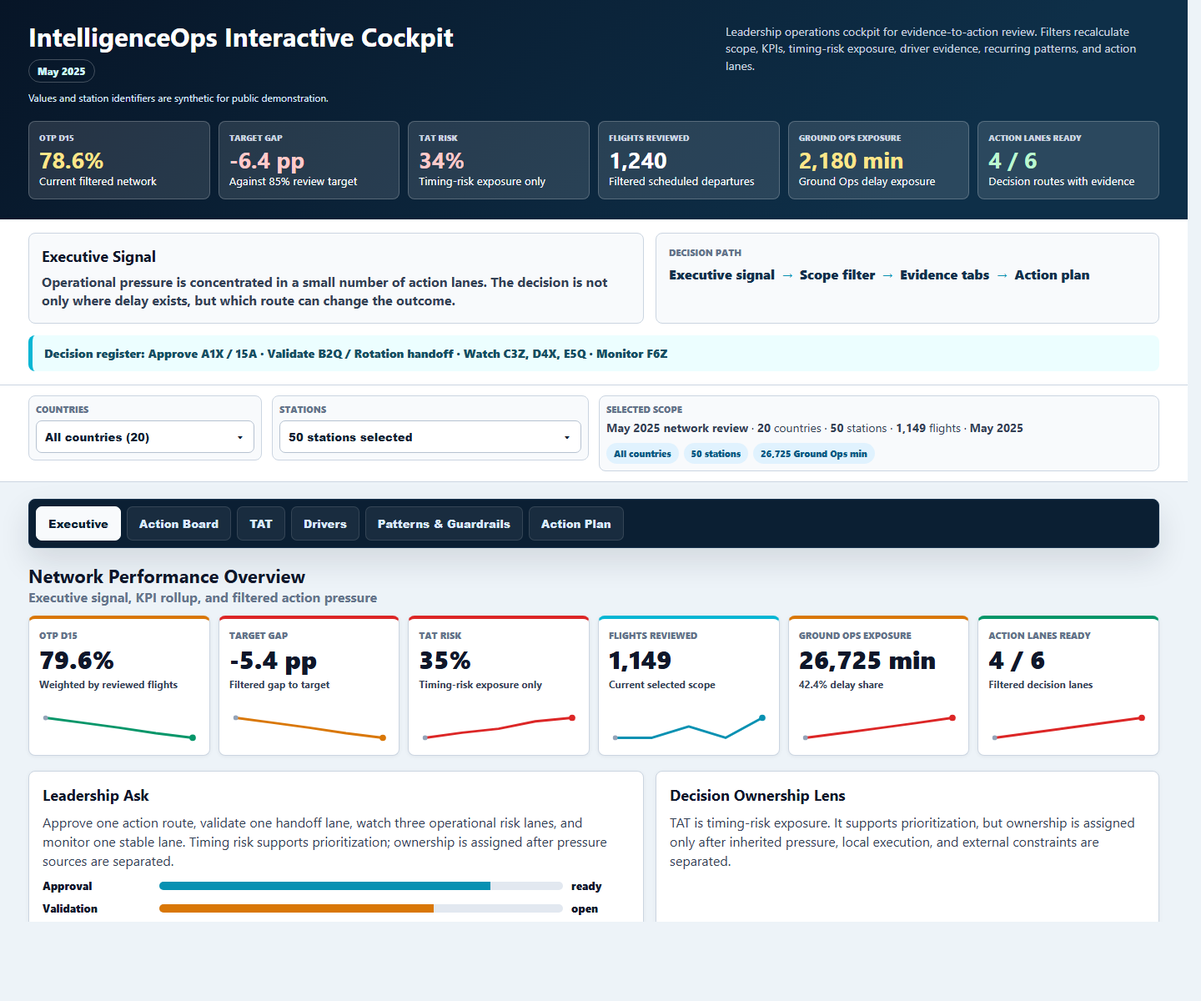
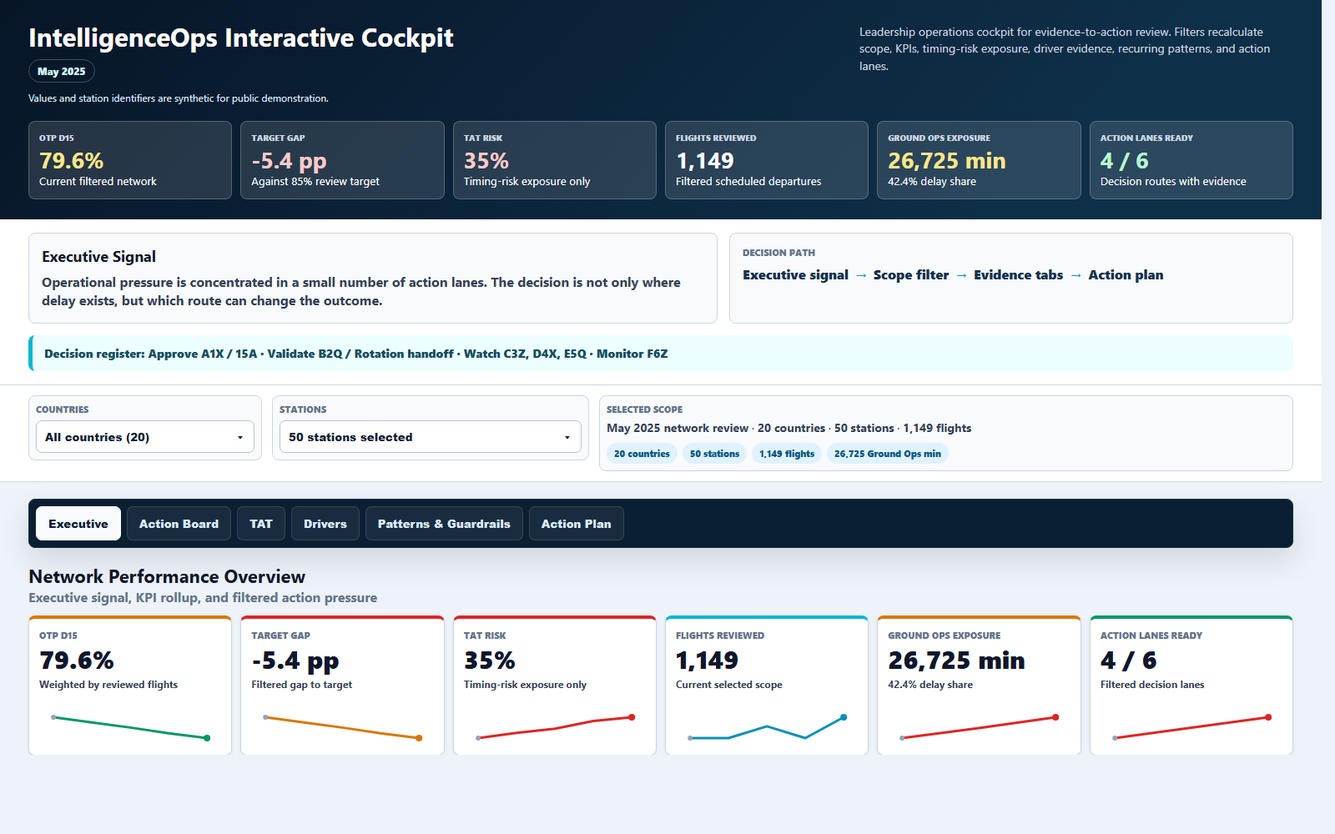
fix: polish interactive synthetic cockpit proof

diff --git a/assets/IntelligenceOps_Synthetic_Interactive_Cockpit.html b/assets/IntelligenceOps_Synthetic_Interactive_Cockpit.html
@@ -48,7 +48,7 @@ h1 { margin:0; font-size:31px; line-height:1.05; letter-spacing:0; }
 .scope-summary { font-size:14px; color:#334155; line-height:1.35; }
 .chips { display:flex; gap:6px; flex-wrap:wrap; margin-top:8px; }
 .chip { background:#e0f2fe; color:#075985; border-radius:999px; padding:5px 9px; font-size:11px; font-weight:850; }
-.wrap { padding:20px 34px 34px; max-width:1680px; margin:0 auto; }
+.wrap { padding:20px 34px 34px; width:100%; max-width:none; margin:0; }
 .gops-tab-shell { background:#0b1f33; border:1px solid #17324d; border-radius:8px; padding:8px; box-shadow:0 16px 36px rgba(15,23,42,.12); margin-bottom:18px; }
 .gops-tabs { display:flex; gap:7px; flex-wrap:wrap; }
 .gops-tab { border:1px solid rgba(255,255,255,.12); border-radius:7px; background:rgba(255,255,255,.06); color:#dbeafe; padding:10px 14px; font-weight:850; cursor:pointer; }
@@ -79,6 +79,49 @@ h1 { margin:0; font-size:31px; line-height:1.05; letter-spacing:0; }
 .impact-station { display:block; margin-top:6px; font-size:34px; line-height:1; font-weight:950; color:#0f172a; }
 .impact-country { margin-top:8px; display:inline-flex; border-radius:999px; background:#e0f2fe; color:#075985; padding:4px 9px; font-size:11px; font-weight:850; }
 .impact-title { margin:12px 0 8px; font-size:17px; }
+.impact-heading { display:block; margin-top:6px; font-size:30px; line-height:1.05; font-weight:950; color:#0f172a; }
+.action-matrix { table-layout:fixed; min-width:1180px; }
+.action-matrix col.station-col { width:12%; }
+.action-matrix col.signal-col { width:19%; }
+.action-matrix col.evidence-col { width:12%; }
+.action-matrix col.tat-col { width:17%; }
+.action-matrix col.route-col { width:24%; }
+.action-matrix col.next-col { width:16%; }
+.action-matrix .route-cell,.action-matrix .next-cell { line-height:1.38; overflow-wrap:break-word; }
+.tat-risk-table { table-layout:fixed; min-width:1120px; }
+.tat-risk-table col.station-col { width:12%; }
+.tat-risk-table col.country-col { width:12%; }
+.tat-risk-table col.count-col { width:8%; }
+.tat-risk-table col.risk-col { width:10%; }
+.tat-risk-table col.pressure-col { width:22%; }
+.tat-risk-table col.cue-col { width:20%; }
+.tat-pressure { font-weight:850; color:#0f172a; }
+.tat-cue { line-height:1.35; overflow-wrap:break-word; }
+.driver-evidence-table { table-layout:fixed; min-width:1180px; }
+.driver-evidence-table col.station-col { width:11%; }
+.driver-evidence-table col.driver-col { width:19%; }
+.driver-evidence-table col.category-col { width:13%; }
+.driver-evidence-table col.metric-col { width:9%; }
+.driver-evidence-table col.route-col { width:20%; }
+.driver-evidence-table col.evidence-col { width:19%; }
+.driver-route,.driver-evidence { line-height:1.35; overflow-wrap:break-word; }
+.guardrail-grid { display:grid; grid-template-columns:1fr 1fr; gap:10px; margin-top:12px; }
+.guardrail-card { border:1px solid var(--line); border-left:5px solid var(--teal); border-radius:8px; padding:10px; background:#f8fafc; }
+.guardrail-card b { display:block; margin-bottom:4px; color:#0f172a; }
+.guardrail-card p { margin:0; color:#334155; line-height:1.35; }
+.pattern-table,.mom-table { table-layout:fixed; min-width:1120px; }
+.pattern-table col.station-col { width:12%; }
+.pattern-table col.pattern-col { width:22%; }
+.pattern-table col.window-col { width:16%; }
+.pattern-table col.evidence-col { width:14%; }
+.pattern-table col.action-col { width:36%; }
+.mom-table col.station-col { width:10%; }
+.mom-table col.driver-col { width:12%; }
+.mom-table col.category-col { width:18%; }
+.mom-table col.month-col { width:12%; }
+.mom-table col.movement-col { width:12%; }
+.mom-table col.signal-col { width:24%; }
+.pattern-action,.trend-signal { line-height:1.35; overflow-wrap:break-word; }
 .impact-metrics { display:grid; grid-template-columns:1fr 1fr; gap:8px; margin:10px 0; }
 .mini { background:#f8fafc; border:1px solid var(--line); border-radius:7px; padding:9px; font-size:12px; color:#334155; }
 .mini b { display:block; color:#0f172a; margin-bottom:4px; }
@@ -100,8 +143,21 @@ td:last-child { border-right:1px solid var(--line); border-radius:0 8px 8px 0; }
 .risk-callout { background:#fef2f2; border:1px solid #fecaca; border-radius:8px; padding:14px; }
 .risk-callout h2 { color:var(--red); }
 .decision-summary { display:grid; grid-template-columns:repeat(4,1fr); gap:10px; margin-bottom:14px; }
-.decision-summary-card { border:1px solid var(--line); border-radius:8px; padding:12px; background:white; }
-.decision-summary-card strong { display:block; font-size:22px; margin-top:4px; }
+.decision-summary-card { border:1px solid var(--line); border-radius:8px; padding:12px; background:white; border-left:6px solid var(--teal); }
+.decision-summary-card span { display:block; color:#475569; font-weight:900; text-transform:uppercase; font-size:11px; }
+.decision-summary-card strong { display:block; font-size:20px; margin-top:5px; color:#0f172a; line-height:1.15; }
+.decision-summary-card.approve { background:#eff6ff; border-left-color:#0284c7; }
+.decision-summary-card.validate { background:#fffbeb; border-left-color:var(--amber); }
+.decision-summary-card.watch { background:#fff7ed; border-left-color:#f97316; }
+.decision-summary-card.monitor { background:#ecfdf5; border-left-color:var(--green); }
+.decision-frame { margin:0 0 12px; color:#334155; font-weight:760; }
+.action-plan-table { table-layout:fixed; min-width:1120px; }
+.action-plan-table col.lane-col { width:15%; }
+.action-plan-table col.signal-col { width:23%; }
+.action-plan-table col.tat-col { width:17%; }
+.action-plan-table col.route-col { width:28%; }
+.action-plan-table col.success-col { width:17%; }
+.action-plan-table td { line-height:1.35; overflow-wrap:break-word; }
 [hidden] { display:none !important; }
 @media(max-width:1200px){.hero-top,.exec-grid,.filter-grid,.two-col,.driver-grid{grid-template-columns:1fr}.hero-kpi-strip,.kpi-grid{grid-template-columns:repeat(3,1fr)}.impact-hero-grid,.watchlist-grid,.decision-summary{grid-template-columns:1fr 1fr}}
 @media(max-width:760px){.hero,.exec-panel,.filter-panel,.wrap{padding-left:18px;padding-right:18px}.hero-kpi-strip,.kpi-grid,.impact-hero-grid,.watchlist-grid,.decision-summary{grid-template-columns:1fr}.metric-row{grid-template-columns:1fr}.impact-metrics{grid-template-columns:1fr}}
@@ -117,7 +173,14 @@ td:last-child { border-right:1px solid var(--line); border-radius:0 8px 8px 0; }
     </div>
     <div class="hero-note">Leadership operations cockpit for evidence-to-action review. Filters recalculate scope, KPIs, timing-risk exposure, driver evidence, recurring patterns, and action lanes.</div>
   </div>
-  <div class="hero-kpi-strip" id="hero-kpi-strip" data-marker="hero-kpi-strip"></div>
+  <div class="hero-kpi-strip" id="hero-kpi-strip" data-marker="hero-kpi-strip">
+    <div class="hero-kpi warn"><span>OTP D15</span><strong>79.6%</strong><small>Current filtered network</small></div>
+    <div class="hero-kpi bad"><span>Target Gap</span><strong>-5.4 pp</strong><small>Against 85% review target</small></div>
+    <div class="hero-kpi bad"><span>TAT Risk</span><strong>35%</strong><small>Timing-risk exposure only</small></div>
+    <div class="hero-kpi primary"><span>Flights Reviewed</span><strong>1,149</strong><small>Filtered scheduled departures</small></div>
+    <div class="hero-kpi warn"><span>Ground Ops Exposure</span><strong>26,725 min</strong><small>42.4% delay share</small></div>
+    <div class="hero-kpi good"><span>Action Lanes Ready</span><strong>4 / 6</strong><small>Decision routes with evidence</small></div>
+  </div>
 </section>
 <section class="exec-panel" aria-label="Executive cockpit summary">
   <div class="exec-grid">
@@ -213,6 +276,7 @@ const esc = value => String(value == null ? '' : value).replace(/[&<>"']/g, c =>
 const fmtNum = (v,d=0) => Number.isFinite(+v) ? (+v).toLocaleString(undefined,{maximumFractionDigits:d,minimumFractionDigits:d}) : '0';
 const fmtPct = (v,d=1) => fmtNum(v,d) + '%';
 const fmtMin = (v,d=0) => fmtNum(v,d) + ' min';
+const pluralLabel = (count, singular, plural=singular+'s') => `${fmtNum(count)} ${+count===1 ? singular : plural}`;
 const stationSet = () => new Set([...state.stations].filter(s => refByStation.has(s)));
 const currentRows = (rows, key='station') => rows.filter(r => r.period === DATA.meta.period && stationSet().has(r[key]));
 const filterRows = (rows, key='station') => rows.filter(r => stationSet().has(r[key]));
@@ -268,35 +332,30 @@ function renderFilters() {
   byId('country-list').innerHTML = countriesAll.filter(c=>c.toLowerCase().includes(q)).map(c=>`<label class="check-row"><input type="checkbox" class="country-check" value="${esc(c)}" ${state.countries.has(c)?'checked':''}> ${esc(c)}</label>`).join('');
   const selected=stationSet(), visible=stationRefsForDropdown();
   byId('station-list').innerHTML = visible.map(r=>`<label class="check-row"><input type="checkbox" class="station-check" value="${esc(r.station)}" ${selected.has(r.station)?'checked':''}> ${esc(r.station)} - ${esc(r.country)}</label>`).join('');
-  byId('country-trigger-label').textContent = state.countries.size === countriesAll.length ? `All countries (${countriesAll.length})` : `${state.countries.size} countries selected`;
-  byId('station-trigger-label').textContent = `${selected.size} stations selected`;
+  byId('country-trigger-label').textContent = state.countries.size === countriesAll.length ? `All countries (${countriesAll.length})` : `${pluralLabel(state.countries.size,'country','countries')} selected`;
+  byId('station-trigger-label').textContent = `${pluralLabel(selected.size,'station','stations')} selected`;
   document.querySelectorAll('.country-check').forEach(el => el.addEventListener('change', e => { setCountrySelected(e.target.value, e.target.checked); renderFilters(); renderAll(); }));
   document.querySelectorAll('.station-check').forEach(el => el.addEventListener('change', e => { setStationSelected(e.target.value, e.target.checked); renderFilters(); renderAll(); }));
-}
-function renderScopeSummary() {
+}function renderScopeSummary() {
   const selectedCountries=[...state.countries].sort(), count=stationSet().size, k=aggregateKpis(currentRows(DATA.kpis));
   byId('scope-label').textContent = DATA.meta.periodLabel;
-  byId('selected-scope-summary').innerHTML = `<strong>${esc(DATA.meta.reviewedScopeLabel)}</strong> · <strong>${selectedCountries.length}</strong> countries · <strong>${count}</strong> stations · <strong>${fmtNum(k.flights)}</strong> flights · <strong>${esc(DATA.meta.periodLabel)}</strong>`;
-  const countryText = selectedCountries.length === countriesAll.length ? 'All countries' : selectedCountries.slice(0,5).join(', ') + (selectedCountries.length > 5 ? ` +${selectedCountries.length-5}` : '');
-  byId('selected-chips').innerHTML = `<span class="chip">${esc(countryText || 'No country selected')}</span><span class="chip">${count} stations</span><span class="chip">${fmtNum(k.gopsMin)} Ground Ops min</span>`;
+  byId('selected-scope-summary').innerHTML = `<strong>${esc(DATA.meta.reviewedScopeLabel)}</strong> · <strong>${esc(pluralLabel(selectedCountries.length,'country','countries'))}</strong> · <strong>${esc(pluralLabel(count,'station','stations'))}</strong> · <strong>${esc(pluralLabel(k.flights,'flight','flights'))}</strong>`;
+  const countryText = selectedCountries.length === countriesAll.length ? pluralLabel(selectedCountries.length,'country','countries') : selectedCountries.length ? `${pluralLabel(selectedCountries.length,'country','countries')}: ${selectedCountries.slice(0,5).join(', ')}${selectedCountries.length > 5 ? ` +${selectedCountries.length-5}` : ''}` : 'No country selected';
+  byId('selected-chips').innerHTML = `<span class="chip">${esc(countryText)}</span><span class="chip">${esc(pluralLabel(count,'station','stations'))}</span><span class="chip">${esc(pluralLabel(k.flights,'flight','flights'))}</span><span class="chip">${fmtNum(k.gopsMin)} Ground Ops min</span>`;
+}
+function heroLaneReadyDisplay() {
+  const visible=DATA.decisionEvidence.filter(r=>stationSet().has(r.station));
+  return visible.length ? { value: laneReadyText(), subtext: 'Decision routes with evidence' } : { value: 'No lanes', subtext: 'No filtered decision lanes' };
 }
 function renderHeroKpis() {
-  const k=aggregateKpis(currentRows(DATA.kpis)), tr=tatRisk(currentRows(DATA.tat));
-  const fullScope = stationSet().size === refs.length;
-  const cards = fullScope ? [
-    ['OTP D15', '78.6%', 'Current filtered network', 'warn'],
-    ['Target Gap', '-6.4 pp', 'Against 85% review target', 'bad'],
-    ['TAT Risk', '34%', 'Timing-risk exposure only', 'bad'],
-    ['Flights Reviewed', '1,240', 'Filtered scheduled departures', 'primary'],
-    ['Ground Ops Exposure', '2,180 min', 'Ground Ops delay exposure', 'warn'],
-    ['Action Lanes Ready', '4 / 6', 'Decision routes with evidence', 'good'],
-  ] : [
+  const k=aggregateKpis(currentRows(DATA.kpis)), tr=tatRisk(currentRows(DATA.tat)), lanes=heroLaneReadyDisplay();
+  const cards = [
     ['OTP D15', fmtPct(k.otpD15Pct), 'Current filtered network', severity(k.otpD15Pct,'otp')],
     ['Target Gap', `${fmtNum(k.targetGap,1)} pp`, 'Against 85% review target', severity(k.targetGap,'gap')],
-    ['TAT Risk', fmtPct(tr.share,0), `${fmtNum(tr.crit)} critical of ${fmtNum(tr.eligible)} eligible`, severity(tr.share,'risk')],
+    ['TAT Risk', fmtPct(tr.share,0), 'Timing-risk exposure only', severity(tr.share,'risk')],
     ['Flights Reviewed', fmtNum(k.flights), 'Filtered scheduled departures', 'primary'],
-    ['Ground Ops Exposure', fmtMin(k.gopsMin), `${fmtPct(k.gopsSharePct)} of delay minutes`, k.gopsSharePct>39?'warn':'good'],
-    ['Action Lanes Ready', laneReadyText(), 'Decision routes with evidence', 'good'],
+    ['Ground Ops Exposure', fmtMin(k.gopsMin), `${fmtPct(k.gopsSharePct)} delay share`, k.gopsSharePct>39?'warn':'good'],
+    ['Action Lanes Ready', lanes.value, lanes.subtext, 'good'],
   ];
   byId('hero-kpi-strip').innerHTML = cards.map(c=>`<div class="hero-kpi ${c[3]}"><span>${esc(c[0])}</span><strong>${esc(c[1])}</strong><small>${esc(c[2])}</small></div>`).join('');
 }
@@ -344,56 +403,193 @@ function scenarioRows() {
 function laneClass(station) { return scenarioByStation.get(station)?.class || (topGroundRows(50).findIndex(r=>r.station===station)<3?'watch':'monitor'); }
 function routeText(row) { const s=scenarioByStation.get(row.station); return s ? s.route : `${refByStation.get(row.station)?.actionRoute || 'Review route'} reviews ${row.top.description.toLowerCase()} before escalation.`; }
 function tatForStation(station) { return DATA.tat.find(r=>r.period===DATA.meta.period && r.station===station) || {}; }
+function sentenceCase(text) { const s=String(text || ''); return s ? s.charAt(0).toUpperCase() + s.slice(1) : s; }
+function signalTitle(row) { const s=scenarioByStation.get(row.station); return s ? s.label : `${row.station} / ${row.top.code}`; }
+function watchlistText(row) {
+  const s=scenarioByStation.get(row.station);
+  if (s?.station === 'D4X') return 'D4X / 34C: Baggage delivery signal repeats after first station check · 190 min · 36% timing-risk exposure.';
+  if (s?.station === 'E5Q') return 'E5Q / 63G: Fueling supplier response remains open after first local check · 150 min · 30% timing-risk exposure.';
+  if (s?.station === 'F6Z') return 'F6Z / 31B: Load-control handoff remains stable below escalation threshold · 95 min · 22% timing-risk exposure.';
+  const tat=tatForStation(row.station);
+  return `${row.station} / ${row.top.code}: ${row.top.description} remains open for review · ${fmtMin(row.minutes)} · ${fmtPct(tat.critShare||0,0)} timing-risk exposure.`;
+}
 function renderStationCards() {
   const scenarioStations = new Set(DATA.decisionEvidence.map(r=>r.station));
   const rows=[...scenarioRows(), ...topGroundRows(20).filter(r=>!scenarioStations.has(r.station))].slice(0,6), hero=rows.slice(0,3), watch=rows.slice(3,6);
   byId('station-cards').innerHTML = `<div class="impact-hero-grid">${hero.map(row => {
     const ref=refByStation.get(row.station), s=scenarioByStation.get(row.station), tat=tatForStation(row.station), cls=laneClass(row.station);
-    return `<article class="impact-card ${cls}"><div class="impact-card-head"><div><span class="impact-badge ${cls}">${esc(s?.lane || ref.requiredActionLevel.toUpperCase())}</span><span class="impact-station">${esc(row.station)}</span><span class="impact-country">${esc(ref.country)}</span></div><strong>${esc(row.top.code)}</strong></div><h3 class="impact-title">${esc(s?.driver || row.top.description)}</h3><div class="impact-metrics"><div class="mini"><b>Evidence</b>${fmtMin(row.minutes)} across ${fmtNum(row.flights)} flights</div><div class="mini"><b>TAT lens</b>${esc(s?.tatLens || fmtPct(tat.critShare||0,0) + ' timing-risk exposure')}</div></div><p>${esc(routeText(row))}</p></article>`;
+    return `<article class="impact-card ${cls}"><div class="impact-card-head"><div><span class="impact-badge ${cls}">${esc(s?.lane || ref.requiredActionLevel.toUpperCase())}</span><span class="impact-heading">${esc(signalTitle(row))}</span><span class="impact-country">${esc(ref.country)}</span></div></div><h3 class="impact-title">${esc(s?.driver || row.top.description)}</h3><div class="impact-metrics"><div class="mini"><b>Evidence</b>${fmtMin(row.minutes)} across ${fmtNum(row.flights)} flights</div><div class="mini"><b>TAT lens</b>${esc(s?.tatLens || fmtPct(tat.critShare||0,0) + ' timing-risk exposure')}</div></div><p>${esc(sentenceCase(routeText(row)))}</p></article>`;
   }).join('')}</div><div class="watchlist-block"><h2>Additional Watchlist</h2><div class="watchlist-grid">${watch.map(row => {
-    const ref=refByStation.get(row.station), tat=tatForStation(row.station), cls=laneClass(row.station);
-    return `<article class="watch-card ${cls}"><span class="badge ${cls}">${esc(ref.requiredActionLevel.toUpperCase())}</span><h3>${esc(row.station)} / ${esc(row.top.code)}</h3><p>${esc(row.top.description)} · ${fmtMin(row.minutes)} · ${fmtPct(tat.critShare||0,0)} TAT risk.</p></article>`;
+    const ref=refByStation.get(row.station), cls=laneClass(row.station);
+    return `<article class="watch-card ${cls}"><span class="badge ${cls}">${esc(ref.requiredActionLevel.toUpperCase())}</span><p>${esc(watchlistText(row))}</p></article>`;
   }).join('')}</div></div>`;
 }
 function renderInterventionTable() {
   const scenarioStations = new Set(DATA.decisionEvidence.map(r=>r.station));
   const rows=[...scenarioRows(), ...topGroundRows(20).filter(r=>!scenarioStations.has(r.station))].slice(0,14);
-  byId('intervention-table').innerHTML = `<div class="table-wrap"><table class="action-matrix"><thead><tr><th>Station</th><th>Primary signal</th><th>Evidence</th><th>TAT lens</th><th>Route</th><th>Next move</th></tr></thead><tbody>${rows.map(row => {
+  byId('intervention-table').innerHTML = `<div class="table-wrap"><table class="action-matrix"><colgroup><col class="station-col"><col class="signal-col"><col class="evidence-col"><col class="tat-col"><col class="route-col"><col class="next-col"></colgroup><thead><tr><th>Station</th><th>Primary signal</th><th>Evidence</th><th>TAT lens</th><th>Route</th><th>Next move</th></tr></thead><tbody>${rows.map(row => {
     const ref=refByStation.get(row.station), s=scenarioByStation.get(row.station), tat=tatForStation(row.station), cls=laneClass(row.station);
-    return `<tr class="${cls}"><td class="station-cell"><strong>${esc(row.station)}</strong><span>${esc(ref.country)}</span></td><td>${esc(s?.label || row.top.code + ' / ' + row.top.description)}</td><td><span class="num">${fmtMin(row.minutes)}</span><br>${fmtNum(row.flights)} flights</td><td>${esc(s?.tatLens || fmtPct(tat.critShare||0,0) + ' timing-risk exposure')}</td><td>${esc(routeText(row))}</td><td>${esc(s?.success || 'Confirm owner, caveat, and recovery window before next review.')}</td></tr>`;
+    return `<tr class="${cls}"><td class="station-cell"><strong>${esc(row.station)}</strong><span>${esc(ref.country)}</span></td><td>${esc(signalTitle(row))}<br>${esc(s?.driver || row.top.description)}</td><td><span class="num">${fmtMin(row.minutes)}</span><br>${fmtNum(row.flights)} flights</td><td>${esc(sentenceCase(s?.tatLens || fmtPct(tat.critShare||0,0) + ' timing-risk exposure'))}</td><td class="route-cell">${esc(sentenceCase(routeText(row)))}</td><td class="next-cell">${esc(sentenceCase(s?.success || 'Confirm owner, caveat, and recovery window before next review.'))}</td></tr>`;
   }).join('')}</tbody></table></div>`;
+}
+function driverDescription(row) { return String(row?.codeDescription || ''); }
+function driverDisplayCode(row) {
+  const d=driverDescription(row).toLowerCase();
+  if (d.includes('gate')) return '52F';
+  if (d.includes('boarding')) return '15A';
+  if (d.includes('prm')) return '19A';
+  if (d.includes('load-control')) return '31B';
+  if (d.includes('baggage')) return '34C';
+  if (d.includes('passenger-processing')) return '42D';
+  if (d.includes('fuel')) return '63G';
+  if (d.includes('stand')) return '71H';
+  if (d.includes('crew') || d.includes('rotation')) return '82J';
+  if (d.includes('security') || d.includes('border-control')) return '86K';
+  if (d.includes('airport flow')) return '91L';
+  if (d.includes('maintenance')) return '94M';
+  if (d.includes('weather') || d.includes('atc')) return '97N';
+  if (d.includes('inherited')) return '99P';
+  return row?.delayCode || '';
+}
+function driverRoute(row) {
+  const d=driverDescription(row).toLowerCase();
+  if (d.includes('inherited') || d.includes('weather') || d.includes('atc')) return 'Context only, no ownership route';
+  if (d.includes('crew') || d.includes('rotation')) return 'OCC / Hub Control validation';
+  if (d.includes('fuel')) return 'Supplier SLA / response-time review';
+  if (d.includes('airport flow') || d.includes('security') || d.includes('border-control') || d.includes('stand') || d.includes('passenger-processing')) return 'Airport authority coordination route';
+  if (d.includes('maintenance')) return 'Technical handoff validation';
+  if (d.includes('load-control')) return 'Load-control / dispatch handoff review';
+  if (d.includes('gate')) return 'Area Manager evidence-led review';
+  if (d.includes('boarding') || d.includes('baggage') || d.includes('prm')) return 'Station GHA + airport manager review';
+  return row?.isContextDriver ? 'Context only, no ownership route' : 'Area Manager evidence-led review';
+}
+function driverEvidenceRead(row) {
+  const d=driverDescription(row).toLowerCase();
+  if (d.includes('gate')) return 'Gate-change timing should be checked against boarding call sequence and inherited arrival pressure.';
+  if (d.includes('boarding')) return 'Boarding readiness evidence is strong enough for station-level review.';
+  if (d.includes('fuel')) return 'Supplier response time needs SLA or service-window caveat before escalation.';
+  if (d.includes('airport flow')) return 'Airport-flow pressure must be separated from station execution before ownership is assigned.';
+  if (d.includes('stand')) return 'Stand constraint needs airport coordination evidence before escalation.';
+  if (d.includes('baggage')) return 'Baggage delivery timing should be checked against ramp readiness and connection pressure.';
+  if (d.includes('crew') || d.includes('rotation')) return 'OCC / Hub Control validates rotation impact before ownership is assigned.';
+  if (d.includes('inherited')) return 'Inherited pressure remains context only; do not route as Ground Ops ownership.';
+  if (d.includes('security') || d.includes('border-control')) return 'Airport authority flow must be separated from local execution before escalation.';
+  if (d.includes('maintenance')) return 'Maintenance release timing requires technical handoff validation before action routing.';
+  if (d.includes('load-control')) return 'Load-control readiness should be checked against final figures and dispatch handoff.';
+  if (d.includes('weather') || d.includes('atc')) return 'Weather or ATC pressure remains context only; do not route as Ground Ops ownership.';
+  if (d.includes('passenger-processing')) return 'Passenger-processing pressure must be separated from local station execution before escalation.';
+  if (d.includes('prm')) return 'PRM service timing needs handoff evidence before escalation.';
+  return row?.isContextDriver ? 'Context signal supports prioritization but does not assign ownership.' : 'Evidence route opens only after inherited, local, and external pressure are separated.';
 }
 function renderGroundCodeTable() {
   const byCode=new Map();
   currentRows(DATA.delayCodes).forEach(r => {
-    const x=byCode.get(r.delayCode)||{code:r.delayCode, description:r.codeDescription, category:r.delayCategory, minutes:0, flights:0, stations:new Set()};
-    x.minutes += +r.delayMinutes || 0; x.flights += +r.flightsAffected || 0; x.stations.add(r.station); byCode.set(r.delayCode,x);
+    const code=driverDisplayCode(r), key=`${code}|${r.codeDescription}|${r.delayCategory}`;
+    const x=byCode.get(key)||{code, description:r.codeDescription, category:r.delayCategory, minutes:0, flights:0, stations:new Set()};
+    x.minutes += +r.delayMinutes || 0; x.flights += +r.flightsAffected || 0; x.stations.add(r.station); byCode.set(key,x);
   });
   const all=[...byCode.values()].sort((a,b)=>b.minutes-a.minutes).slice(0,10);
   const ground=[...byCode.values()].filter(r=>r.category==='Ground Ops').sort((a,b)=>b.minutes-a.minutes).slice(0,5);
   const table = (title, rows) => `<h2>${esc(title)}</h2><div class="table-wrap"><table><thead><tr><th>Code</th><th>Description</th><th>Category</th><th>Minutes</th><th>Flights</th><th>Stations</th></tr></thead><tbody>${rows.map(r=>`<tr><td>${esc(r.code)}</td><td>${esc(r.description)}</td><td>${esc(r.category)}</td><td class="num">${fmtMin(r.minutes)}</td><td class="num">${fmtNum(r.flights)}</td><td>${fmtNum(r.stations.size)}</td></tr>`).join('')}</tbody></table></div>`;
   byId('ground-code-table').innerHTML = `<div class="driver-grid"><section class="panel">${table('Top 10 All Categories', all)}</section><section class="panel">${table('Top 5 Ground Ops Only', ground)}</section></div>`;
 }
+function tatDriversForStation(station) {
+  return currentRows(DATA.tatDrivers).filter(r=>r.station===station).sort((a,b)=>(+b.driverShareOfTatRisk||0)-(+a.driverShareOfTatRisk||0));
+}
+function tatPressureSource(row) {
+  const drivers=tatDriversForStation(row.station);
+  const top=drivers.find(r=>r.isGroundOpsDriver) || drivers[0] || {};
+  const source=String(top.codeDescription || '').toLowerCase();
+  if (source.includes('boarding')) return 'Boarding readiness gap';
+  if (source.includes('crew') || source.includes('rotation')) return 'Crew / rotation handoff';
+  if (source.includes('passenger')) return 'Passenger-processing queue';
+  if (source.includes('stand')) return 'Stand availability pressure';
+  if (source.includes('fuel')) return 'Fueling supplier response';
+  if (source.includes('load-control')) return 'Load-control handoff';
+  if (source.includes('baggage')) return 'Baggage delivery timing';
+  if (source.includes('gate')) return 'Gate-change / late boarding call';
+  if (source.includes('security') || source.includes('border')) return 'Security or border-control queue';
+  if (source.includes('maintenance')) return 'Maintenance release timing';
+  if (source.includes('airport flow')) return 'Airport-flow context';
+  if (source.includes('weather') || source.includes('atc')) return 'Weather / ATC context';
+  if (source.includes('prm')) return 'PRM service timing';
+  return 'Operational timing-pressure source';
+}
+function tatDecisionCue(row) {
+  const source=tatPressureSource(row);
+  if (source === 'Boarding readiness gap') return 'Start with boarding-readiness evidence before escalation.';
+  if (source === 'Crew / rotation handoff') return 'Validate crew-duty and rotation impact before assigning ownership.';
+  if (source === 'Passenger-processing queue') return 'Separate passenger-processing constraint from station execution first.';
+  if (source === 'Stand availability pressure') return 'Check stand availability and recovery window before escalation.';
+  if (source === 'Fueling supplier response') return 'Confirm supplier response time and caveat before next review.';
+  if (source === 'Load-control handoff') return 'Validate handoff timing and recovery window before escalation.';
+  if (source === 'Baggage delivery timing') return 'Check delivery timing against local execution and connection pressure.';
+  if (source === 'Gate-change / late boarding call') return 'Separate late call sequence from inherited arrival pressure.';
+  if (source === 'Security or border-control queue') return 'Confirm queue constraint before assigning station action.';
+  if (source === 'Maintenance release timing') return 'Treat release timing as context until operational handoff is separated.';
+  if (source === 'Airport-flow context') return 'Separate airport-flow context from station execution first.';
+  if (source === 'Weather / ATC context') return 'Use weather or ATC only as context for timing-risk priority.';
+  if (source === 'PRM service timing') return 'Check service timing and handoff evidence before escalation.';
+  return row.critShare>=34 ? 'Review repeated pressure sources before assigning ownership.' : 'Keep in timing-risk review; do not assign ownership from TAT alone.';
+}
 function renderTat() {
-  const rows=currentRows(DATA.tat).sort((a,b)=>b.critShare-a.critShare).slice(0,12), risk=tatRisk(currentRows(DATA.tat));
-  byId('tat-panel').innerHTML = `<div class="two-col"><section class="panel risk-callout"><h2>TAT Risk Board</h2><p>${fmtPct(risk.share,0)} timing-risk exposure across ${fmtNum(risk.eligible)} eligible turnarounds. Average overrun is ${fmtMin(risk.avgOverrun,1)}.</p><div class="metric-row"><span>Critical</span><div class="track"><div class="fill bad" style="width:${Math.min(100,risk.share)}%"></div></div><span>${fmtPct(risk.share,0)}</span></div><div class="metric-row"><span>Actionable</span><div class="track"><div class="fill" style="width:${Math.min(100,aggregateKpis(currentRows(DATA.kpis)).gopsSharePct)}%"></div></div><span>${fmtPct(aggregateKpis(currentRows(DATA.kpis)).gopsSharePct,0)}</span></div></section><section class="panel"><h2>Guardrail</h2><p>TAT is timing-risk exposure. It supports prioritization, but ownership is assigned only after inherited pressure, local execution, and external constraints are separated.</p></section></div><div class="table-wrap panel" style="margin-top:14px"><table><thead><tr><th>Station</th><th>Country</th><th>Eligible</th><th>Critical</th><th>Risk Share</th><th>Avg Overrun</th><th>Decision cue</th></tr></thead><tbody>${rows.map(r=>`<tr class="${r.critShare>=34?'watch':'monitor'}"><td class="station-cell"><strong>${esc(r.station)}</strong><span>${esc(r.country)}</span></td><td>${esc(r.country)}</td><td>${fmtNum(r.eligibleFlights)}</td><td>${fmtNum(r.critFlights)}</td><td>${fmtPct(r.critShare,0)}</td><td>${fmtMin(r.avgOverrunMin,1)}</td><td>${esc(r.critShare>=34?'Prioritize route review after ownership separation.':'Keep in standard monitoring lane.')}</td></tr>`).join('')}</tbody></table></div>`;
+  const scopedTat=currentRows(DATA.tat), rows=scopedTat.sort((a,b)=>b.critShare-a.critShare).slice(0,12), risk=tatRisk(scopedTat), k=aggregateKpis(currentRows(DATA.kpis));
+  byId('tat-panel').innerHTML = `<div class="two-col"><section class="panel risk-callout"><h2>TAT Risk Board</h2><p>${fmtPct(risk.share,0)} timing-risk exposure across ${fmtNum(risk.eligible)} eligible turnarounds. Average overrun is ${fmtMin(risk.avgOverrun,1)}. Review starts where timing risk repeats across multiple operational pressure sources.</p><div class="metric-row"><span>Critical</span><div class="track"><div class="fill bad" style="width:${Math.min(100,risk.share)}%"></div></div><span>${fmtPct(risk.share,0)}</span></div><div class="metric-row"><span>Actionable</span><div class="track"><div class="fill" style="width:${Math.min(100,k.gopsSharePct)}%"></div></div><span>${fmtPct(k.gopsSharePct,0)}</span></div></section><section class="panel"><h2>Guardrail</h2><p>TAT is timing-risk exposure. It supports prioritization, but ownership is assigned only after inherited pressure, local execution, and external constraints are separated.</p></section></div><div class="table-wrap panel" style="margin-top:14px"><table class="tat-risk-table"><colgroup><col class="station-col"><col class="country-col"><col class="count-col"><col class="count-col"><col class="risk-col"><col class="risk-col"><col class="pressure-col"><col class="cue-col"></colgroup><thead><tr><th>Station</th><th>Country</th><th>Eligible</th><th>Critical</th><th>Risk Share</th><th>Avg Overrun</th><th>Pressure source</th><th>Decision cue</th></tr></thead><tbody>${rows.map(r=>`<tr class="${r.critShare>=34?'watch':'monitor'}"><td class="station-cell"><strong>${esc(r.station)}</strong><span>${esc(r.country)}</span></td><td>${esc(r.country)}</td><td>${fmtNum(r.eligibleFlights)}</td><td>${fmtNum(r.critFlights)}</td><td>${fmtPct(r.critShare,0)}</td><td>${fmtMin(r.avgOverrunMin,1)}</td><td class="tat-pressure">${esc(tatPressureSource(r))}</td><td class="tat-cue">${esc(tatDecisionCue(r))}</td></tr>`).join('')}</tbody></table></div>`;
 }
 function renderTatDrivers() {
   const rows=currentRows(DATA.tatDrivers).sort((a,b)=>b.driverDelayMinutes-a.driverDelayMinutes).slice(0,16);
-  byId('tat-driver-panel').innerHTML = `<div class="table-wrap"><table><thead><tr><th>Station</th><th>Driver</th><th>Category</th><th>Delay Min</th><th>TAT Share</th><th>Route</th><th>Evidence read</th></tr></thead><tbody>${rows.map(r=>`<tr class="${r.isGroundOpsDriver?'watch':'monitor'}"><td class="station-cell"><strong>${esc(r.station)}</strong><span>${esc(r.country)}</span></td><td>${esc(r.delayCode)} · ${esc(r.codeDescription)}</td><td>${esc(r.delayCategory)}</td><td class="num">${fmtMin(r.driverDelayMinutes)}</td><td>${fmtPct(r.driverShareOfTatRisk,0)}</td><td>${esc(r.actionRoute)}</td><td>${esc(r.isGroundOpsDriver?'Local execution signal can route action after context is separated.':'Context signal supports prioritization but does not assign ownership.')}</td></tr>`).join('')}</tbody></table></div>`;
+  byId('tat-driver-panel').innerHTML = `<div class="table-wrap"><table class="driver-evidence-table"><colgroup><col class="station-col"><col class="driver-col"><col class="category-col"><col class="metric-col"><col class="metric-col"><col class="route-col"><col class="evidence-col"></colgroup><thead><tr><th>Station</th><th>Driver</th><th>Category</th><th>Delay Min</th><th>TAT Share</th><th>Route</th><th>Evidence read</th></tr></thead><tbody>${rows.map(r=>`<tr class="${r.isGroundOpsDriver?'watch':'monitor'}"><td class="station-cell"><strong>${esc(r.station)}</strong><span>${esc(r.country)}</span></td><td>${esc(driverDisplayCode(r))} · ${esc(r.codeDescription)}</td><td>${esc(r.delayCategory)}</td><td class="num">${fmtMin(r.driverDelayMinutes)}</td><td>${fmtPct(r.driverShareOfTatRisk,0)}</td><td class="driver-route">${esc(driverRoute(r))}</td><td class="driver-evidence">${esc(driverEvidenceRead(r))}</td></tr>`).join('')}</tbody></table></div>`;
+}
+function patternWindow(row, index) {
+  const byStation={A1X:'First departure wave',B2Q:'Rotation handoff window',C3Z:'Peak passenger-processing window',D4X:'Late afternoon wave',E5Q:'Midday connection bank',F6Z:'Night-stop recovery window'};
+  const windows=['First departure wave','Midday connection bank','Late afternoon wave','Night-stop recovery window','Peak passenger-processing window','Rotation handoff window'];
+  return byStation[row.station] || windows[index % windows.length];
+}
+function momDisplayCategory(row) {
+  const key=String(row.driverKey || '');
+  const category=String(row.delayCategory || '');
+  if (key === '91L' || key === '86K') return 'Coordination Context';
+  if (key === '97N') return 'External Constraint';
+  if (key === '99P') return 'Inherited Context';
+  return category;
+}
+function momTrendSignal(row) {
+  const category=momDisplayCategory(row);
+  if (row.direction !== 'worsening') return 'De-escalation candidate';
+  if (category.includes('Context') || category.includes('Constraint')) return 'Coordination context';
+  if ((+row.absDelta || 0) >= 140) return 'Worsening pressure';
+  if ((+row.absDelta || 0) >= 70) return 'Recurring pattern';
+  return 'Watch only';
 }
 function renderPatterns() {
   const rows=filterRows(DATA.drilldown).sort((a,b)=>b.delayMinutes-a.delayMinutes);
-  byId('context-panel').innerHTML = `<div class="two-col"><section class="panel"><h2>Recurring Pattern Evidence</h2><p class="section-note">Patterns are shown only for selected stations and are used to route review, not to assign ownership by themselves.</p><div class="table-wrap"><table><thead><tr><th>Station</th><th>Pattern</th><th>Window</th><th>Evidence</th><th>Action use</th></tr></thead><tbody>${rows.map(r=>`<tr class="${String(r.materialityFlag).toLowerCase()}"><td class="station-cell"><strong>${esc(r.station)}</strong><span>${esc(r.country)}</span></td><td>${esc(r.patternLabel)}</td><td>${esc(r.timeWindow)}</td><td>${fmtMin(r.delayMinutes)} across ${fmtNum(r.flightsAffected)} flights</td><td>${esc(r.actionUse)}</td></tr>`).join('')}</tbody></table></div></section><section class="panel"><h2>Patterns & Guardrails</h2><p>Inherited late arrival, weather, ATC, crew duty, and airport flow are retained as context. Ground Ops ownership appears only after local execution is separated from external constraints.</p><div class="guardrail">TAT is timing-risk exposure. It supports prioritization, but ownership is assigned only after inherited pressure, local execution, and external constraints are separated.</div></section></div>`;
+  const guardrails=[
+    ['Ownership boundary','Do not assign ownership until inherited pressure, local execution, and external constraints are separated.'],
+    ['TAT boundary','TAT flags timing risk; it does not prove accountability alone.'],
+    ['External constraint boundary','Airport flow, security, border-control, weather, and ATC remain coordination/context until execution evidence is separated.'],
+    ['Escalation trigger','Escalate only when the pattern repeats after local corrective action or when authority/supplier coordination is required.'],
+  ];
+  byId('context-panel').innerHTML = `<div class="two-col"><section class="panel"><h2>Recurring Pattern Evidence</h2><p class="section-note">Patterns are shown only for selected stations and are used to route review, not to assign ownership by themselves.</p><div class="table-wrap"><table class="pattern-table"><colgroup><col class="station-col"><col class="pattern-col"><col class="window-col"><col class="evidence-col"><col class="action-col"></colgroup><thead><tr><th>Station</th><th>Pattern</th><th>Window</th><th>Evidence</th><th>Action use</th></tr></thead><tbody>${rows.map((r,i)=>`<tr class="${String(r.materialityFlag).toLowerCase()}"><td class="station-cell"><strong>${esc(r.station)}</strong><span>${esc(r.country)}</span></td><td>${esc(r.patternLabel)}</td><td>${esc(patternWindow(r,i))}</td><td>${fmtMin(r.delayMinutes)} across ${fmtNum(r.flightsAffected)} flights</td><td class="pattern-action">${esc(sentenceCase(r.actionUse))}</td></tr>`).join('')}</tbody></table></div></section><section class="panel"><h2>Patterns & Guardrails</h2><p>Inherited late arrival, weather, ATC, crew duty, and airport flow are retained as context. Ground Ops ownership appears only after local execution is separated from external constraints.</p><div class="guardrail">TAT is timing-risk exposure. It supports prioritization, but ownership is assigned only after inherited pressure, local execution, and external constraints are separated.</div><div class="guardrail-grid">${guardrails.map(g=>`<div class="guardrail-card"><b>${esc(g[0])}</b><p>${esc(g[1])}</p></div>`).join('')}</div></section></div>`;
 }
 function renderMom() {
   const rows=filterRows(DATA.mom).sort((a,b)=>b.absDelta-a.absDelta).slice(0,10);
-  byId('mom-section').innerHTML = `<section class="panel"><h2>MoM Movement</h2><div class="table-wrap"><table><thead><tr><th>Station</th><th>Driver</th><th>Category</th><th>April 2025</th><th>May 2025</th><th>Movement</th></tr></thead><tbody>${rows.map(r=>`<tr class="${r.direction==='worsening'?'watch':'monitor'}"><td>${esc(r.station)}</td><td>${esc(r.driverKey)}</td><td>${esc(r.delayCategory)}</td><td>${fmtMin(r.minutesPrev)}</td><td>${fmtMin(r.minutesCurrent)}</td><td>${r.direction==='worsening'?'+':''}${fmtMin(r.delta)}</td></tr>`).join('')}</tbody></table></div></section>`;
+  byId('mom-section').innerHTML = `<section class="panel"><h2>MoM Movement</h2><div class="table-wrap"><table class="mom-table"><colgroup><col class="station-col"><col class="driver-col"><col class="category-col"><col class="month-col"><col class="month-col"><col class="movement-col"><col class="signal-col"></colgroup><thead><tr><th>Station</th><th>Driver</th><th>Category</th><th>April 2025</th><th>May 2025</th><th>Movement</th><th>Trend Signal</th></tr></thead><tbody>${rows.map(r=>`<tr class="${r.direction==='worsening'?'watch':'monitor'}"><td>${esc(r.station)}</td><td>${esc(r.driverKey)}</td><td>${esc(momDisplayCategory(r))}</td><td>${fmtMin(r.minutesPrev)}</td><td>${fmtMin(r.minutesCurrent)}</td><td>${r.direction==='worsening'?'+':''}${fmtMin(r.delta)}</td><td class="trend-signal">${esc(momTrendSignal(r))}</td></tr>`).join('')}</tbody></table></div></section>`;
+}
+function actionPlanTatLens(row) {
+  return sentenceCase(row.tatLens);
+}
+function actionPlanRoute(row) {
+  return sentenceCase(row.route);
 }
 function renderRecommendations() {
   const rows=DATA.decisionEvidence.filter(r=>stationSet().has(r.station));
-  const counts={APPROVE:0,VALIDATE:0,WATCH:0,MONITOR:0}; rows.forEach(r=>counts[r.lane]++);
-  byId('recommendations').innerHTML = `<div class="decision-summary"><div class="decision-summary-card">Approve<strong>${counts.APPROVE}</strong></div><div class="decision-summary-card">Validate<strong>${counts.VALIDATE}</strong></div><div class="decision-summary-card">Watch<strong>${counts.WATCH}</strong></div><div class="decision-summary-card">Monitor<strong>${counts.MONITOR}</strong></div></div><div class="table-wrap"><table><thead><tr><th>Lane</th><th>Evidence Signal</th><th>TAT Lens</th><th>Decision / Authority / Action Route</th><th>Success Check</th></tr></thead><tbody>${rows.map(r=>`<tr class="${r.class}"><td>${esc(r.lane)}<br>${esc(r.label)}</td><td>${esc(r.driver)}<br>${esc(r.pattern)}</td><td>${esc(r.tatLens)}</td><td>${esc(r.route)}</td><td>${esc(r.success)}</td></tr>`).join('')}</tbody></table></div><div class="guardrail">TAT is timing-risk exposure. It supports prioritization, but ownership is assigned only after inherited pressure, local execution, and external constraints are separated.</div>`;
+  const cards=[
+    ['approve','Approve','1 route ready'],
+    ['validate','Validate','1 handoff open'],
+    ['watch','Watch','3 lanes under review'],
+    ['monitor','Monitor','1 stable lane'],
+  ];
+  byId('recommendations').innerHTML = `<div class="decision-summary">${cards.map(c=>`<div class="decision-summary-card ${c[0]}"><span>${esc(c[1])}</span><strong>${esc(c[2])}</strong></div>`).join('')}</div><p class="decision-frame">Decision register converts evidence into approval, validation, watch, and monitor lanes.</p><div class="table-wrap"><table class="action-plan-table"><colgroup><col class="lane-col"><col class="signal-col"><col class="tat-col"><col class="route-col"><col class="success-col"></colgroup><thead><tr><th>Lane</th><th>Evidence Signal</th><th>TAT Lens</th><th>Decision / Authority / Action Route</th><th>Success Check</th></tr></thead><tbody>${rows.map(r=>`<tr class="${r.class}"><td>${esc(r.lane)}<br>${esc(r.label)}</td><td>${esc(r.driver)}<br>${esc(r.pattern)}</td><td>${esc(actionPlanTatLens(r))}</td><td>${esc(actionPlanRoute(r))}</td><td>${esc(sentenceCase(r.success))}</td></tr>`).join('')}</tbody></table></div><div class="guardrail">TAT is timing-risk exposure. It supports prioritization, but ownership is assigned only after inherited pressure, local execution, and external constraints are separated.</div>`;
 }
 function initTabs() {
   const tabs=[...document.querySelectorAll('.gops-tab')], sections=[...document.querySelectorAll('[data-gops-tab-section]')];
@@ -415,7 +611,19 @@ function initFilters() {
 function renderAll() {
   renderScopeSummary(); renderHeroKpis(); renderExecutiveHeader(); renderKpis(); renderStationCards(); renderInterventionTable(); renderGroundCodeTable(); renderTat(); renderTatDrivers(); renderPatterns(); renderMom(); renderRecommendations();
 }
-initTabs(); initFilters(); renderAll();
+function bootCockpit() {
+  initTabs();
+  initFilters();
+  renderAll();
+}
+if (document.readyState === 'loading') {
+  document.addEventListener('DOMContentLoaded', bootCockpit, { once: true });
+} else {
+  bootCockpit();
+}
 </script>
 </body>
 </html>
+
+
+
